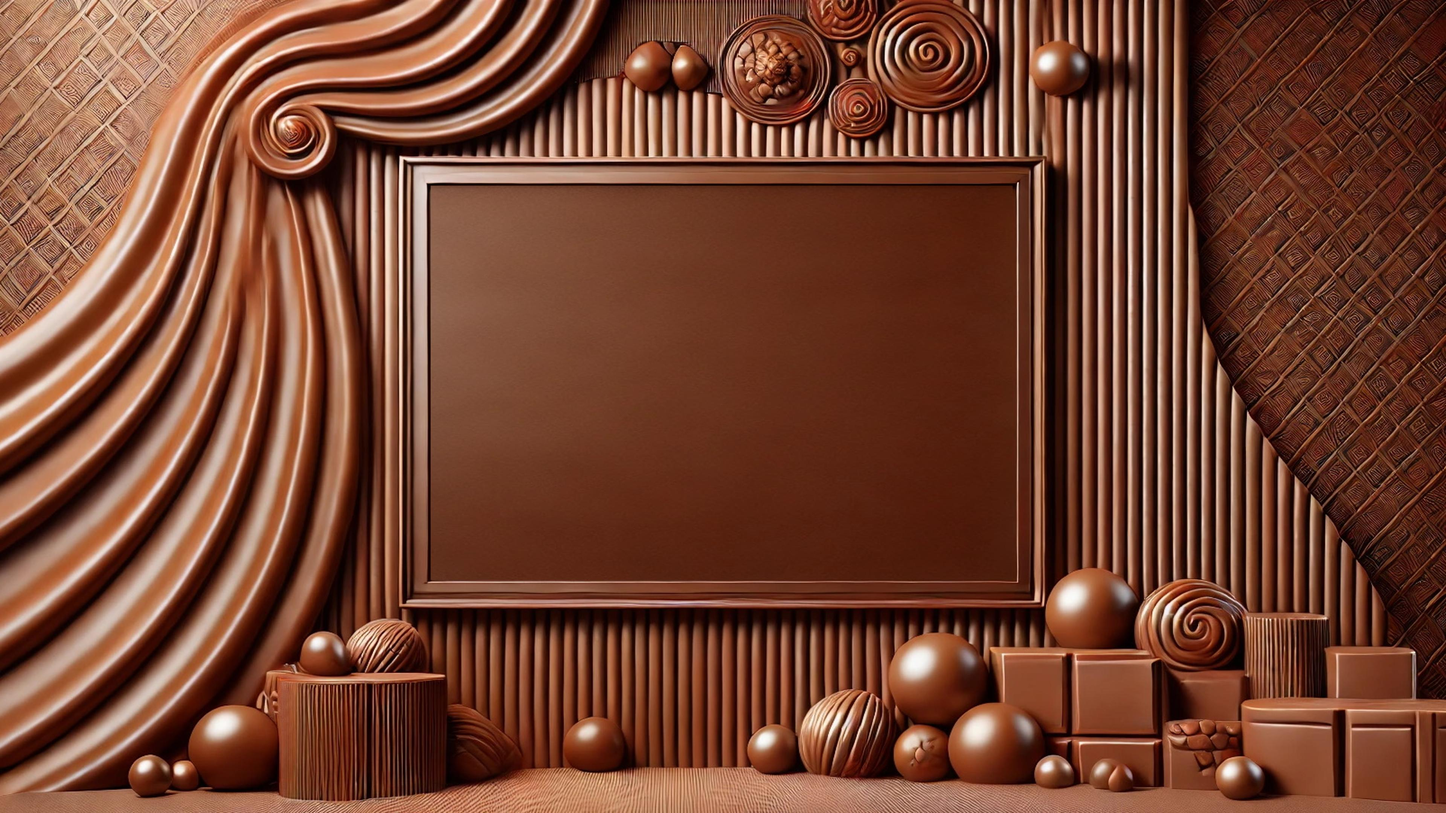
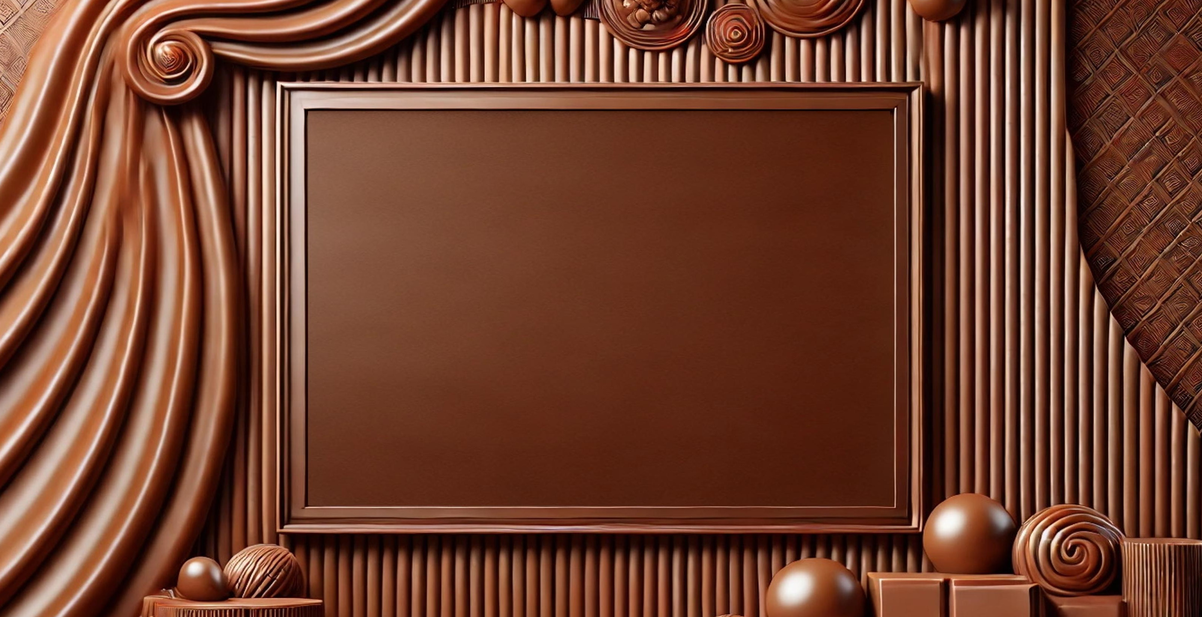
Sizes fix

diff --git a/src/Screens/QuizScreen.js b/src/Screens/QuizScreen.js
@@ -109,26 +109,11 @@ const QuizScreen = ({ navigation }) => {
     return (
       <Popup
         isVisible={userResultPopupVisibility}
-        onClose={() => setUserResultPopupVisibility(false)}
         titleText={'Rezultat Kviza'}
         cancelOption={true}
-        wrapContent={
-          <View style={{ alignSelf: 'center', justifyContent: 'center' }}>
-            <ThemeText type={'popupBodyText'} style={{textAlign:'center'}}>
-              {`Bravo, ${user}!`}
-            </ThemeText>
-            <ThemeText type={'popupBodyText'} style={{textAlign:'center'}}>
-              {`${initialCorrectAnswers} od ${quizQuestions.length} točnih odgovorov`}
-            </ThemeText>
-            <ThemeText type={'popupBodyText'} style={{textAlign:'center'}}>
-              {`Upoštevajoč tvoj čas, je tvoj rezultat: ${score}`}
-            </ThemeText>
-            <View style={{ alignSelf: 'center', justifyContent: 'space-around', flexDirection: 'row', marginTop: height * 0.02 }}>
-              <CustomButton type={'primary'} text={'Prekliči'} onButtonPress={() => setUserResultPopupVisibility(false)} style={{width: width * 0.1, marginRight: width * 0.01, backgroundColor: theme.primaryColor, color: theme.secondaryColor}}/>
-              <CustomButton type={'primary'} text={'Potrdi'} onButtonPress={() => {setUserResultPopupVisibility(false); navigation.navigate('ListOfResultsScreen', { score })}} style={{width: width * 0.1, backgroundColor: theme.primaryColor, color: theme.secondaryColor}} />
-            </View>
-          </View>
-        }
+        onClose={() => setUserResultPopupVisibility(false)}
+        onRightButtonPress={() => {setUserResultPopupVisibility(false); navigation.navigate('ListOfResultsScreen', { score })}}
+        messageText = {`Bravo, ${user}!\n${initialCorrectAnswers} od ${quizQuestions.length} točnih odgovorov\nUpoštevajoč tvoj čas, je tvoj rezultat: ${score}`}
       />
     )
   }
@@ -174,12 +159,14 @@ const QuizScreen = ({ navigation }) => {
                   text={option}
                   type="secondary"
                   onButtonPress={() => handleAnswerPress(option)}
-                  style={[
-                    { width: width * 0.175 },
+                  customBackgroundColor={selectedAnswer === option ? (isCorrect ? styles.correctAnswer.backgroundColor : styles.incorrectAnswer.backgroundColor) : null}
+                  style={{width: width * 0.2}}
+                  /*style={[
+                    { width: width * 0.2 },
                     selectedAnswer === option
                       ? { backgroundColor: isCorrect ? styles.correctAnswer.backgroundColor : styles.incorrectAnswer.backgroundColor }
                       : {}
-                  ]}
+                  ]}*/
                 />
               </View>
             ))}
@@ -194,21 +181,26 @@ const QuizScreen = ({ navigation }) => {
                   text={option}
                   type="secondary"
                   onButtonPress={() => handleAnswerPress(option)}
-                  style={[
-                    { width: width * 0.175 },
+                  customBackgroundColor={selectedAnswer === option ? (isCorrect ? styles.correctAnswer.backgroundColor : styles.incorrectAnswer.backgroundColor) : null}
+                  style={{width: width * 0.2}}
+                  /*style={[
+                    { width: width * 0.2 },
                     selectedAnswer === option
-                      ? { backgroundColor: isCorrect ? styles.correctAnswer.backgroundColor : styles.incorrectAnswer.backgroundColor }
+                      ? { customBackgroundColor: isCorrect ? styles.correctAnswer.backgroundColor : styles.incorrectAnswer.backgroundColor }
                       : {}
-                  ]}
+                  ]}*/
                 />
               </View>
             ))}
           </View>
-          {isCorrect !== null && (
+          {isCorrect !== null ? (
             <ThemeText type="headerText" style={{marginTop: height * 0.025}}>
               {isCorrect ? "Pravilno!" : "Napačno, poskusi znova!"}
             </ThemeText>
-          )}
+          ) : (<ThemeText type="headerText" style={{marginTop: height * 0.025}}>
+              
+            </ThemeText>)
+          }
         </View>
         <View style={styles.navigationButtonsContainer}>
           <View style={styles.rowNavigation}>
@@ -235,11 +227,11 @@ const styles = StyleSheet.create({
   },
   container: {
     //flex: 1,
-    width: '40%',
-    height: '50%',
+    width: '50%',
+    height: '65%',
     justifyContent: 'center',
     alignItems: 'center',
-    marginBottom: height * 0.05
+    //backgroundColor: 'yellow'
     //backgroundColor: 'red'
     /*backgroundColor: '#F7F1D9',
     borderColor: '#3e2723',
@@ -298,7 +290,7 @@ const styles = StyleSheet.create({
   },
   questionContainer: {
     flex: 0.6,
-    width: '100%',
+    width: '90%',
     justifyContent: 'center',
     alignItems: 'center',
     flexDirection: 'column'
@@ -314,7 +306,7 @@ const styles = StyleSheet.create({
     flexDirection: 'row',
     justifyContent: 'space-around',
     width: '100%',
-    paddingHorizontal: 30,
+    //paddingHorizontal: 30,
     marginTop: height * 0.01
   },
   answerContainer: {

diff --git a/src/Components/CustomButton.js b/src/Components/CustomButton.js
@@ -2,26 +2,33 @@ import React, { useContext } from 'react';
 import { TouchableOpacity, StyleSheet, Dimensions } from 'react-native';
 import { ThemeText } from '../Components';
 import { ThemeContext } from '../Context/ThemeContext';
+import { fontSize } from '../Constants/Dimensions';
 
-const { width, height, fontScale } = Dimensions.get('window')
+const { width, height, fontScale } = Dimensions.get('window');
 
 export default CustomButton = (props) => {
-  const { theme, toggleTheme, isDarkTheme } = useContext(ThemeContext);
+  const { theme } = useContext(ThemeContext);
 
   // Fallback to 'primary' if props.type is invalid or missing
   const type = props.type && styles[props.type] ? props.type : 'primary';
   const customWidth = props?.style?.width;
-  const fS = props.fS;
-  const disabled = props.disabled;
-  const backgroundColor = props.style?.backgroundColor || theme.buttonBackgroundColor;
-  const textColor = props.style?.color || theme.buttonTextColor; // Use color from props or fallback
+  const backgroundColor = props.customBackgroundColor 
+    ? props.customBackgroundColor 
+    : (type === 'primary' ? theme.buttonBackgroundColorPrimary : theme.buttonBackgroundColorSecondary);
+  const textColor = type === 'primary' ? theme.buttonTextColorPrimary : theme.buttonTextColorSecondary;
 
   return (
     <TouchableOpacity
       onPress={props.onButtonPress}
-      style={[ styles.button, { backgroundColor: props.style?.backgroundColor ?? theme.buttonBackgroundColor }, props.style]}
+      style={[
+        styles[type],
+        {
+          backgroundColor: backgroundColor,
+          ...(type === 'secondary' && customWidth ? { width: customWidth } : {}),
+        },
+      ]}
     >
-      <ThemeText type="buttonText" style={{ color: textColor }}>
+      <ThemeText type={type === 'primary' ? 'primaryButtonText' : 'secondaryButtonText'} style={{ color: textColor }}>
         {props.text}
       </ThemeText>
     </TouchableOpacity>
@@ -30,10 +37,23 @@ export default CustomButton = (props) => {
 
 const styles = StyleSheet.create({
   button: {
-    paddingVertical: 15,
-    paddingHorizontal: 20,
+    paddingVertical: fontScale * 3,
     borderRadius: fontScale * 10,
     alignItems: 'center',
-    justifyContent: 'center'
+    justifyContent: 'center',
+  },
+  primary: {
+    padding: fontSize * 0.5,
+    borderRadius: fontSize * 0.5,
+    alignItems: 'center',
+    justifyContent: 'center',
+    backgroundColor: '#371C0B',
+  },
+  secondary: {
+    padding: fontSize * 0.5,
+    borderRadius: fontSize * 0.5,
+    alignItems: 'center',
+    justifyContent: 'center',
+    backgroundColor: '#371C0B',
   },
 });

diff --git a/src/Components/Popup.js b/src/Components/Popup.js
@@ -11,12 +11,12 @@ export default function Popup({
   onClose, //Required
   titleText = 'Supply the popup with a title! (titleText)',
   messageText = 'Supply the popup with a message! (messageText)',
-  leftButtonText = 'Cancel',
+  leftButtonText = 'Prekliči',
   onLeftButtonPress,
-  rightButtonText = 'Submit',
+  rightButtonText = 'Potrdi',
   onRightButtonPress,
   cancelOption,
-  oneButtonText = 'Submit',
+  oneButtonText = 'Potrdi',
   wrapContent,
   loading,
   customHeight,
@@ -52,20 +52,21 @@ export default function Popup({
   const renderBody = () => {
     return (
       <View style={{ minHeight: height / 10, justifyContent: 'space-around' }}>
-        <ThemeText type="popupBodyText" style={{ textAlign: 'center' }} text={messageText} />
+        <ThemeText type="freeTextInvert" style={{ textAlign: 'center' }}>{messageText}</ThemeText>
         {!cancelOption ? (
           <CustomButton text={oneButtonText ? oneButtonText : 'Okay'} onButtonPress={onOneButtonPress} type={'primary'} />
         ) : (
           <View
             style={{
-              width: '100%',
-              flexDirection: 'column',
+              width: width * 0.5,
+              flexDirection: 'row',
               alignItems: 'center',
               justifyContent: 'space-evenly',
               marginTop: '5%'
-            }}>
-            <CustomButton text={leftButtonText} onButtonPress={onClose} type={'secondary'} />
-            <CustomButton text={rightButtonText} onButtonPress={onRightButtonPress} type={'secondary'} />
+            }}
+          >
+            <CustomButton text={leftButtonText} onButtonPress={onClose} type={'primary'} customWidth={width * 0.2}/>
+            <CustomButton text={rightButtonText} onButtonPress={onRightButtonPress} type={'primary'} customWidth={width * 0.2} />
           </View>
         )}
       </View>
@@ -78,7 +79,7 @@ export default function Popup({
       <View
         style={{
           //height: customHeight && customHeight,
-          width: width * 0.3,
+          width: width * 0.5,
           alignItems: 'center',
           alignSelf: 'center',
           justifyContent: 'center',

diff --git a/src/Components/ThemeText.js b/src/Components/ThemeText.js
@@ -1,14 +1,18 @@
 import React, { useContext } from 'react'
 import { Text, Dimensions } from 'react-native'
 import { ThemeContext, Colors } from '../Context/ThemeContext'
+import { fontSize as FS } from '../Constants/Dimensions';
 
 const { fontScale } = Dimensions.get('window')
 const fontSize = {
   popupHeaderText: { fontSize: fontScale * 20, fontWeight: 'bold' },
   popupBodyText: { fontSize: fontScale * 16 },
-  headerText: { fontSize: fontScale * 20, fontWeight: 'bold' },
+  headerText: { fontSize: FS * 0.6, fontWeight: 'bold' },
   freeText: { fontSize: fontScale * 16 },
+  freeTextInvert: { fontSize: fontScale * 16 },
   buttonText: { fontSize: fontScale * 20, fontWeight: 'bold' },
+  primaryButtonText: { fontSize: FS * 0.75, fontWeight: 'bold' },
+  secondaryButtonText: { fontSize: FS * 0.6, fontWeight: 'bold' },
   errorMessage: { fontSize: fontScale * 15 },
   subHeader: { fontSize: fontScale * 14 },
   link: { fontSize: fontScale * 17 },
@@ -24,7 +28,10 @@ export default ThemeText = ({ type, style, onPress, children, ...rest }) => {
     popupBodyText: { color: theme.primaryColor },
     headerText: { color: theme.freeTextColor },
     freeText: { color: theme.freeTextColor },
+    freeTextInvert: { color: theme.freeTextColorInvert },
     buttonText: { color: theme.buttonTextColor },
+    primaryButtonText: { color: theme.primaryButtonText },
+    secondaryButtonText: { color: theme.secondaryButtonText },
     errorMessage: { color: Colors.red },
     subHeader: { color: theme.highlight2 },
     link: { color: Colors.blue, textDecorationLine: 'underline' },

diff --git a/src/Components/ThemeInput.js b/src/Components/ThemeInput.js
@@ -1,6 +1,7 @@
 import React, { useContext, useState } from 'react';
 import { TextInput, StyleSheet, Platform, Dimensions } from 'react-native';
 import { ThemeContext } from '../Context/ThemeContext';
+import { fontSize as FS } from '../Constants/Dimensions';
 
 const { width, height, fontScale } = Dimensions.get('window')
 
@@ -47,10 +48,9 @@ const styles = StyleSheet.create({
   input: {
     backgroundColor: '#F7F1D9',  // Light beige background color
     // Remove color from here
-    paddingVertical: 12,
-    paddingHorizontal: 20,
-    borderRadius: fontScale * 10,
-    fontSize: 16,
+    padding: FS * 0.5,
+    borderRadius: FS * 0.5,
+    fontSize: FS * 0.6,
     fontWeight: '600',
     shadowColor: '#371C0B',  // Dark shadow color
     shadowOpacity: 0.3,

diff --git a/src/Screens/ListOfResultsScreen.js b/src/Screens/ListOfResultsScreen.js
@@ -4,7 +4,7 @@ import { UserContext } from '../Context';
 import { ThemeText, CustomButton } from '../Components';
 import AsyncStorage from '@react-native-async-storage/async-storage';
 
-const ChocolateBackground = require('../../assets/resized_chocolate_quiz_background_4K_UHD_v2.png');
+const ChocolateBackground = require('../../assets/resized_chocolate_quiz_background_4K_UHD_v2.jpg');
 
 const ListOfResultsScreen = ({ route, navigation }) => {
   const { user } = useContext(UserContext);
@@ -86,7 +86,7 @@ const styles = StyleSheet.create({
   },
   container: {
     width: '25%',
-    height: '45%',
+    height: '75%',
     padding: 20,
     justifyContent: 'center',
     alignItems: 'center',

diff --git a/src/Context/ThemeContext.js b/src/Context/ThemeContext.js
@@ -34,8 +34,13 @@ export const DarkTheme = {
   darkBackground: Colors.blackMetal,
   secondaryBackground: Colors.mediumBrown,
   freeTextColor: Colors.beige,
+  freeTextColorInvert: Colors.darkBrown,
   buttonBackgroundColor: Colors.beige,
+  buttonBackgroundColorPrimary: Colors.darkBrown,
+  buttonBackgroundColorSecondary: Colors.beige,
   buttonTextColor: Colors.darkBrown,
+  buttonTextColorPrimary: Colors.beige,
+  buttonTextColorSecondary: Colors.darkBrown,
   subtext: Colors.lightGrey,
   highlight: Colors.blue,
   shadow: Colors.transparent,

diff --git a/src/Screens/HomeScreen.js b/src/Screens/HomeScreen.js
@@ -42,8 +42,8 @@ const HomeScreen = ({ navigation }) => {
 
         <CustomButton
           text="Začni s kvizom"
-          type="secondary"
-          style={{ backgroundColor: theme.primaryColor, color: theme.secondaryColor }}
+          type="primary"
+          //style={{ backgroundColor: theme.primaryColor, color: theme.secondaryColor }}
           onButtonPress={() => {
             if (userName) {
               setUser(userName); // Set the user name in context
